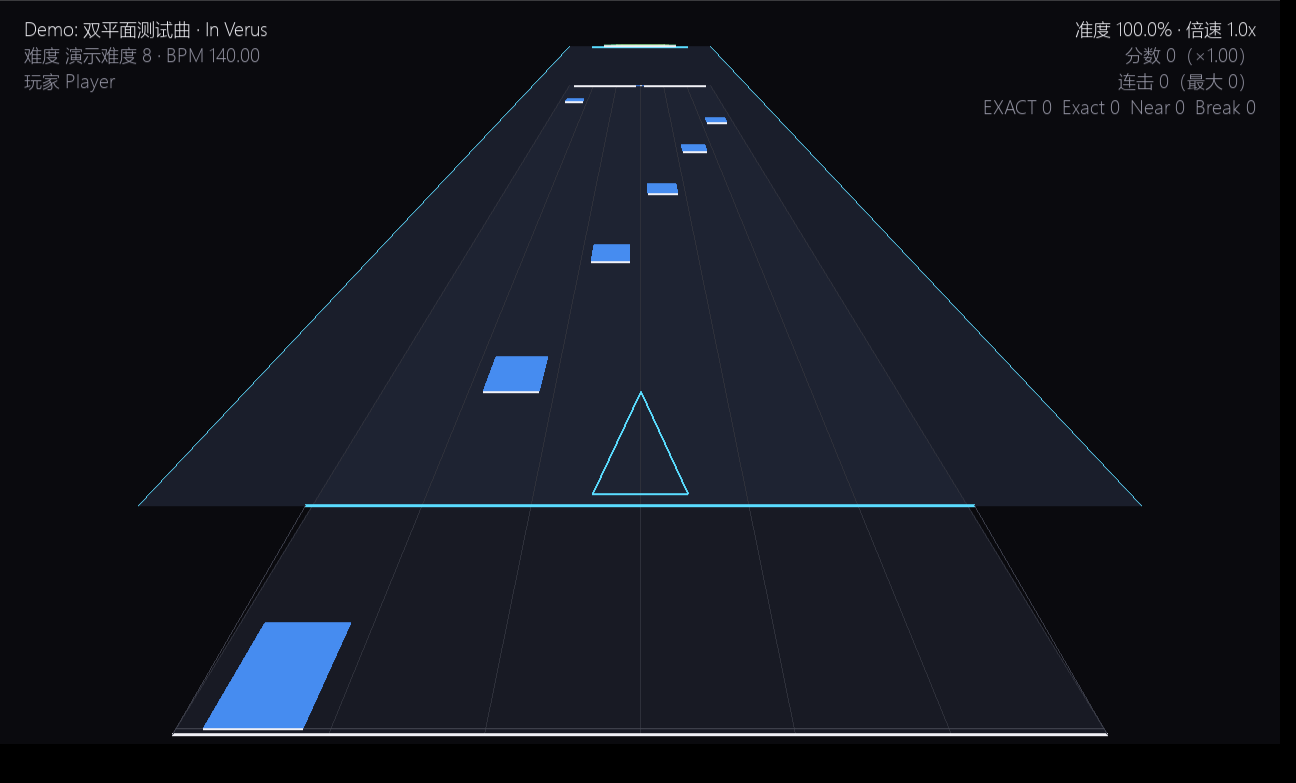
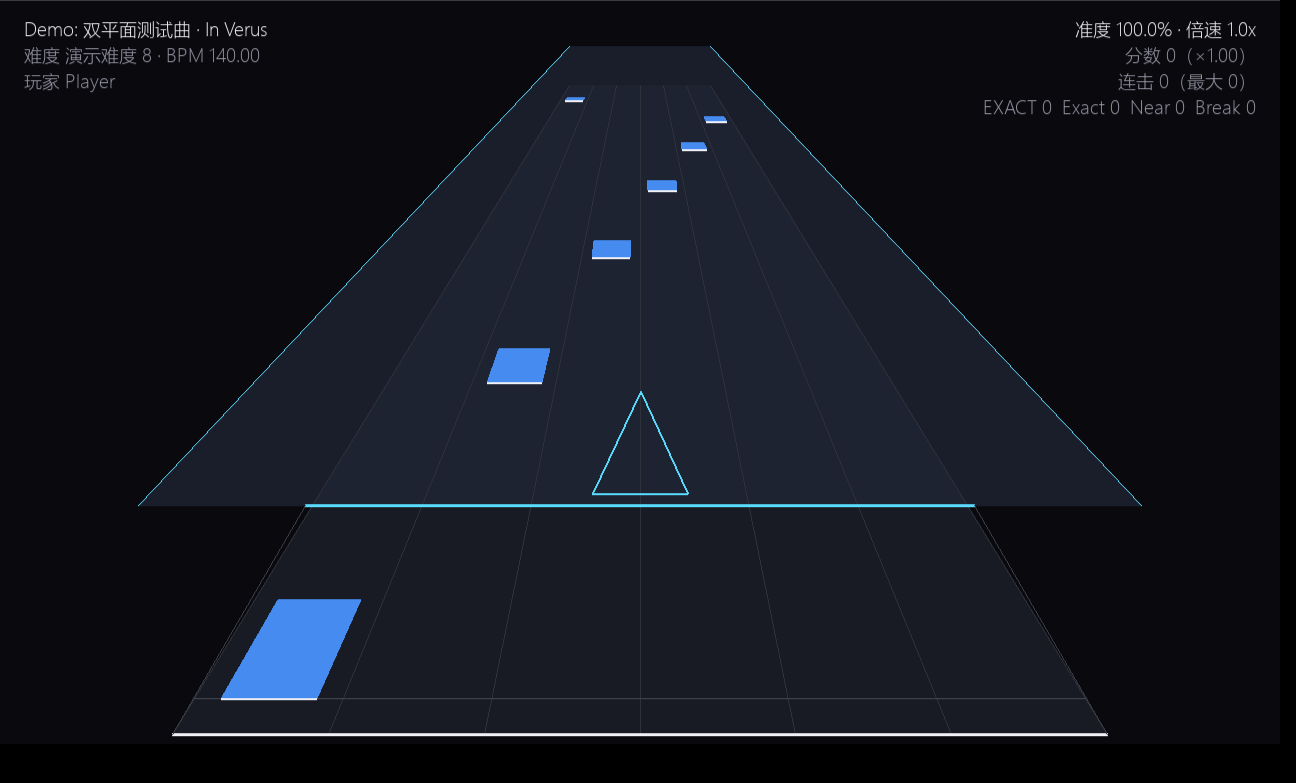
fix(player): 远于可视范围的物件不再绘制（滑键全堆在屏幕上方）；每帧 poll 音频后端（低倍速卡死/断音）+ 短暂无声不立刻结束

diff --git a/tests/test_game_app.py b/tests/test_game_app.py
@@ -553,6 +553,61 @@ class PlayerAppSmokeTests(unittest.TestCase):
         self.assertTrue(app.message)
         app._draw()                          # 尺寸变化后还能正常画
 
+    def test_player_feeds_the_stretch_audio_backend_every_frame(self) -> None:
+        """每帧都要 poll 音频后端：不喂的话低倍速只播第一段，谱面时钟跟着卡住。"""
+        app = self.app
+        app._enter_loading()
+        app._start_play()
+        calls = []
+        original = app.audio.poll
+        app.audio.poll = lambda: (calls.append(1), original())[1]
+        try:
+            for _ in range(10):
+                app._update(1 / 120)
+        finally:
+            app.audio.poll = original
+        self.assertGreaterEqual(len(calls), 10, "每帧都要喂音频后端")
+
+    def test_audio_gap_does_not_end_the_game_immediately(self) -> None:
+        """换窗口时音频可能短暂停下：要等 0.5 秒以上才判定“播完了”。"""
+        app = self.app
+        app._enter_loading()
+        app._start_play()
+        app._now_ms = lambda: 1000.0
+        original = type(app.audio).is_playing
+        type(app.audio).is_playing = property(lambda self: False)
+        try:
+            for _ in range(30):                 # 0.25 秒
+                app._update(1 / 120)
+            self.assertEqual(app.state, "play", "短暂无声不该立刻结束")
+            for _ in range(60):                 # 再 0.5 秒
+                app._update(1 / 120)
+            self.assertEqual(app.state, "result")
+        finally:
+            type(app.audio).is_playing = original
+
+    def test_notes_beyond_the_horizon_are_not_drawn(self) -> None:
+        """比可视范围更远的滑键 / 点击按键不画（否则会全堆在屏幕最上方）。"""
+        from rhythm_editor.model.notes import MouseClick, MouseSlide
+
+        app = self.app
+        app._enter_loading()
+        chart = app.chart
+        markers = [n for n in chart.all_notes() if isinstance(n, (MouseSlide, MouseClick))]
+        self.assertTrue(markers, "示例谱面应有滑键 / 点击按键")
+        scroll = app.settings.scroll_ms
+        for now in (0.0, 1000.0):
+            drawn = [n for n in markers if app._note_ahead(n, now) and app._note_visible(n, now)]
+            for note in drawn:
+                self.assertLessEqual(
+                    app._head_ms(note) - now, scroll + 1e-6, "远于可视范围的物件不该被画"
+                )
+        first = min(markers, key=lambda n: app._head_ms(n))
+        head = app._head_ms(first)
+        just_entered = head - scroll + 1.0
+        self.assertTrue(app._note_ahead(first, just_entered))
+        self.assertFalse(app._note_ahead(first, just_entered - 2.0))
+
 
 if __name__ == "__main__":
     unittest.main()

diff --git a/src/rhythm_editor/game/app.py b/src/rhythm_editor/game/app.py
@@ -174,6 +174,7 @@ class PlayerApp:
         self.pause_wall = 0.0
         self.audio_start_ms = 0.0
         self.lead_wait_ms = 0.0
+        self.idle_seconds = 0.0            # 音频连续停多久（用来判“真的播完了”）
         # 鼠标 UI 的命中区域（每帧绘制时写入）与半透明叠加层
         self.ui: dict = {}
         self.hover = ""
@@ -1054,6 +1055,9 @@ class PlayerApp:
         self.popups.append((result.grade, result.grade, 0.7))
 
     def _update(self, dt: float) -> None:
+        # 慢放后端（重采样）需要每帧喂下一段窗口；不喂的话低倍速时只会播第一段，
+        # 谱面时钟会跟着卡住、音乐随后消失
+        self.audio.poll()
         if self.state == "loading":
             self.timer += dt
             if self.timer >= 1.2:
@@ -1080,7 +1084,12 @@ class PlayerApp:
             if self.judge.judged_notes >= self.judge.total_notes and now_ms > 0:
                 self._finish()
             elif not self.audio.is_playing and now_ms > 0:
-                self._finish()
+                # 换窗口的瞬间可能短暂“没在播”，多等一会儿再判定结束
+                self.idle_seconds += dt
+                if self.idle_seconds > 0.5:
+                    self._finish()
+            else:
+                self.idle_seconds = 0.0
 
     def _finish(self) -> None:
         self.audio.pause()
@@ -1494,12 +1503,20 @@ class PlayerApp:
             return now_ms <= self.chart.timing.beat_to_song_ms(note.beat_end) + 1e-6
         return now_ms <= self._head_ms(note) + 1e-6
 
+    def _note_ahead(self, note: Note, now_ms: float) -> bool:
+        """物件是否已经进入可视范围。
+
+        比 ``scroll_ms`` 更远的物件必须**不画**：``note_z`` 会把进度夹在 0~1，
+        否则它们会全部贴在起点（屏幕最上方）堆成一排。
+        """
+        return self._head_ms(note) - now_ms <= self.settings.scroll_ms
+
     def _draw_notes(self, now_ms: float) -> None:
         assert self.chart is not None
         visible = [
             n
             for n in self.chart.all_notes()
-            if self._note_z(self._head_ms(n), now_ms) <= START_Z and self._note_visible(n, now_ms)
+            if self._note_ahead(n, now_ms) and self._note_visible(n, now_ms)
         ]
         visible.sort(key=lambda n: (self._layer_of(n), n.head_beat))
         for note in visible:

diff --git a/docs/VERIFICATION.md b/docs/VERIFICATION.md
@@ -113,7 +113,7 @@ python tools/check_audio.py
 
 | 项目 | 命令 | 结果 |
 | --- | --- | --- |
-| 单元测试（含 Tk 画布冒烟测试、应用级测试与游玩器测试） | `python -m unittest discover -s tests -t .` | Ran 315 tests — **OK** |
+| 单元测试（含 Tk 画布冒烟测试、应用级测试与游玩器测试） | `python -m unittest discover -s tests -t .` | Ran 318 tests — **OK** |
 | 需求验收清单 | `python tools/acceptance.py` | 18 项全部 `[OK ]`，结论：全部通过（含游玩器 4 项） |
 | 音频后端 | `python tools/check_audio.py` | 9 项全部 `[OK ]`（pygame.mixer 真实播放，延迟补偿正确） |
 | 示例谱面生成 | `python run_editor.py --make-demo` | 生成 `charts/demo/demo.json`（6K 32 / 区域 3 / 滑键 6 / 点击按键 4 / 4 个速度组） |
@@ -212,7 +212,9 @@ python tools/check_audio.py
 | `tests/test_game_judge.py`（26 条） | 游玩器判定：EXACT/Exact/Near/Break 窗口、空敲无惩罚、一次按键只判一个、**输入类型必须匹配（6K 键只判 6K、鼠标点击只判鼠标点击按键）**、滑键吸附最好等级、空域半拍区间、长按“抬起事件 + 末 50ms 宽限（跨区间）”、多轨长按“所有行同时抬起才算抬起”、准度与分数公式、分数 × 倍速^1.5、连击与最大连击 |
 | `tests/test_game_scene.py`（9 条） | 游玩器 3D 布局：1 单位 = 鼠标合法区宽 = 6K 中间四轨；鼠标平面高 0.4；两条判定线位置；近大远小；起点在屏幕上方；**游玩区铺满窗口（竖直 ≥85%、水平居中、换尺寸重算）** |
 | `tests/test_game_settings.py`（9 条） | 游玩器设置：默认键位、范围夹取、**流速 ↔ 可视毫秒（1500/n）与老 `scroll_ms` 迁移**、键位补齐、全局读写与损坏回退、最近打开列表去重与上限、渲染后端设置（含非法值回退） |
-| `tests/test_game_app.py`（24 条） | 游玩器 GUI 冒烟（headless）：主界面 → 加载 → 游玩 → 结算、鼠标映射、设置全局保存、轨道高亮与判定飘字、音量与暂停、谱面列表元数据与最近打开、渲染后端切换与回退、倍速（含上限 3x 与分数 ×3^1.5）、charts/ “每个含 json 的文件夹算一张谱面”、没有谱面时也能进设置、打开其他路径的 JSON、判定时刻过去的物件不再绘制、首拍 1.5 秒引导且音乐同步、文本输入走 TEXTINPUT / 键位按键捕获、鼠标可操作主界面 / 设置 / 结算、轨道键优先于界面快捷键（空格 = 第 6 轨）、GL 呈现异常时自动回退软件渲染（坏配置不写回）、`--software` 命令行强制后端、流速行 − ● +（● 自定义输入、夹取到 1~10）、只有数字类选项才有 − + 按钮、**四种物件厚度互相独立（长按 / 空域没有厚度）**、**结算页 1/3 + 2/3 且不显示倍速倍率**、**窗口尺寸变化不重建显示表面 + F10 / F11 不抛异常** |
+| `tests/test_game_app.py`（27 条） | 游玩器 GUI 冒烟（headless）：主界面 → 加载 → 游玩 → 结算、鼠标映射、设置全局保存、轨道高亮与判定飘字、音量与暂停、谱面列表元数据与最近打开、渲染后端切换与回退、倍速（含上限 3x 与分数 ×3^1.5）、charts/ “每个含 json 的文件夹算一张谱面”、没有谱面时也能进设置、打开其他路径的 JSON、判定时刻过去的物件不再绘制、首拍 1.5 秒引导且音乐同步、文本输入走 TEXTINPUT / 键位按键捕获、鼠标可操作主界面 / 设置 / 结算、轨道键优先于界面快捷键（空格 = 第 6 轨）、GL 呈现异常时自动回退软件渲染（坏配置不写回）、`--software` 命令行强制后端、流速行 − ● +（● 自定义输入、夹取到 1~10）、只有数字类选项才有 − + 按钮、四种物件厚度互相独立（长按 / 空域没有厚度）、结算页 1/3 + 2/3 且不显示倍速倍率、窗口尺寸变化不重建显示表面 + F10 / F11 不抛异常、**远于可视范围的物件不绘制（回归：滑键堆在屏幕上方）**、**每帧 poll 音频后端（回归：低倍速卡死 / 断音）**、**短暂无声不立刻结束游戏（>0.5s 才算播完）** |
+
+| 低倍速实测（真实音频，跑真机 20 秒） | 0.5x / 0.1x 下逐帧 `_update` + `audio.poll()` | 0.5x：真实 20s → 歌曲 9.76s、`playing=True` 全程；0.1x：真实 12s → 歌曲 1.15s、`playing=True`；修复前只播完第一段窗口就停 |
 
 | 窗口模式实测（真实窗口） | `_maximize_window()` / `_toggle_fullscreen()` | 1280×744 → 最大化 **1536×793** → 全屏 **1536×864**（桌面分辨率）→ 回窗口 **1456×744**，全程持续渲染 |
 

diff --git a/CHANGELOG.md b/CHANGELOG.md
@@ -1,5 +1,28 @@
 # 更新日志
 
+## 0.3.8 — 滑键堆在屏幕上方 / 低倍速卡死
+
+### 所有滑键都堆在屏幕最上方（即使还没到时间）
+
+* `note_z()` 会把进度夹在 0~1，所以**比可视范围更远**的物件 z 恒等于 `START_Z`
+  （屏幕最上方的起点），而旧的剔除判断写的是 `z <= START_Z` —— 于是它们全被画在起点，
+  铺满窗口后看起来就是“所有滑键都堆在屏幕上方”。
+* 新增 `_note_ahead()`：`判定时刻 − 当前时刻 ≤ 可视毫秒` 才画；`_draw_notes` 改用它剔除。
+  实测 1500ms 可视范围下、歌曲 0s 时滑键画面为空（第一根滑键 9.1s 才到），
+  8.0s 只画 M4，9.0s 画 M4/M5/M6 —— 都在可视范围内逐个进入。
+
+### 较低倍速玩一会儿就卡死、音乐随后消失
+
+* **根因**：`StretchedSoundBackend`（慢放用的重采样后端）需要**每帧 `poll()`**
+  才会把下一段窗口交给混音通道；编辑器每帧都调，**游玩器一直没调**。
+  于是低倍速下只播了第一段窗口（8~20 秒），此后：
+  谱面时钟停在窗口末端不动（画面卡死）→ 音乐播完消失 → 游戏提前结束。
+* 游玩器 `_update()` 现在每帧调用 `audio.poll()`（对普通后端是空操作）。
+  实测 0.5x：真实 20 秒推进歌曲 9.76 秒且音频持续在播；0.1x：真实 12 秒推进 1.15 秒，
+  全程 `playing=True`。
+* 顺带把“音频停了就结束”改成**连续静音超过 0.5 秒**才结束
+  （换窗口的瞬间可能短暂不 busy，原来会被误判成播放结束）。
+
 ## 0.3.7 — 游玩区铺满窗口 / 分物件厚度 / 结算分栏 / 最大化与全屏
 
 ### 游玩区铺满窗口
